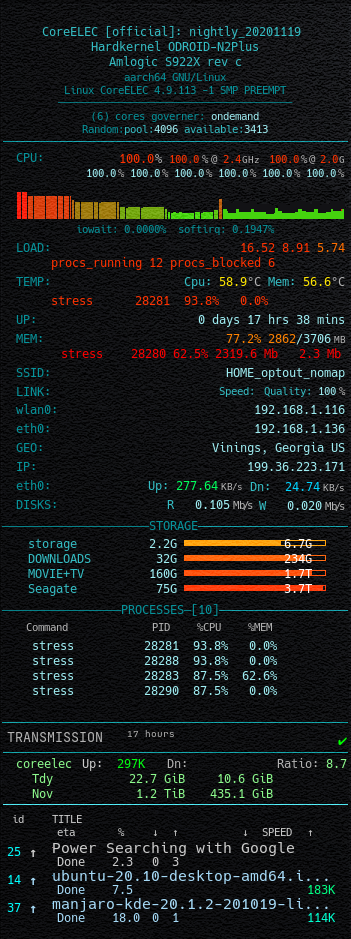
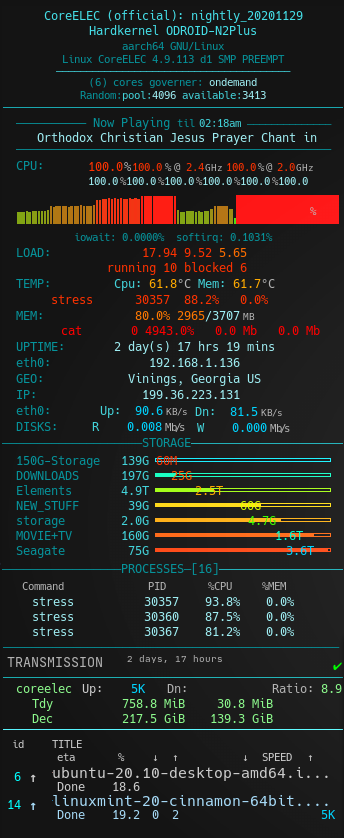
added Playlist 'Up Next' and cleaned up for shellcheck

diff --git a/README.md b/README.md
@@ -7,13 +7,14 @@ Remotely Monitor coreELEC via Conky
      
    Usage:
    
-     /opt/bin/coreelec-conky.sh -[ocltumeqirxsdfp]
+     /opt/bin/coreelec-conky.sh -[ocltumeqirxsdfpn]
           [o] os info <ng>   [c] cpu usage         [l] load average
           [t] temp cpu & ram [u] uptime            [m] memory
           [e] network essid  [q] wireless quality  [i] lan address
           [r] network region [x] public ip         [s] network up/down speed
           [d] disk i/o       [f] mounted filesystems, free space, & graph of usage
           [p] processes command pid %cpu %mem (sorted w/ SORT=%CPU|%MEM)
+          [n] now playing
 
  Ꜿ plgroves gmail nov 2020
     
@@ -23,6 +24,12 @@ Remotely Monitor coreELEC via Conky
    Install entware:
     https://discourse.coreelec.org/t/what-is-entware-and-how-to-install-uninstall-it/1149
    
+     bash              full v5 functionality
+     bind-dig          not in busybox
+     coreutils-df      to allow for local-only exclude and fields
+     coreutils-sort    for various sorting methods
+     coreutils-stat    for checking file "creation" time
+     procps-ng-top     with busybox top -b - 'dumb': unknown terminal type
     
    Get hack font 
     https://github.com/source-foundry/Hack
@@ -53,11 +60,11 @@ Remotely Monitor coreELEC via Conky
    
    run: 
 
-    time ssh Hostname /opt/bin/coreelec-conky.sh -[ocltumeqirxsdfp] >/dev/null
+    time ssh Hostname /opt/bin/coreelec-conky.sh -[ocltumeqirxsdfpn] >/dev/null
       
    to determine 'interval' & add the following to your conky config:
    
-    ${texecpi 'interval' ssh Hostname /opt/bin/coreelec-conky.sh -[ocltumeqirxsdfp]}
+    ${texecpi 'interval' ssh Hostname /opt/bin/coreelec-conky.sh -[ocltumeqirxsdfpn]}
       
    alignment and cpu format can be changed from the command line
      
